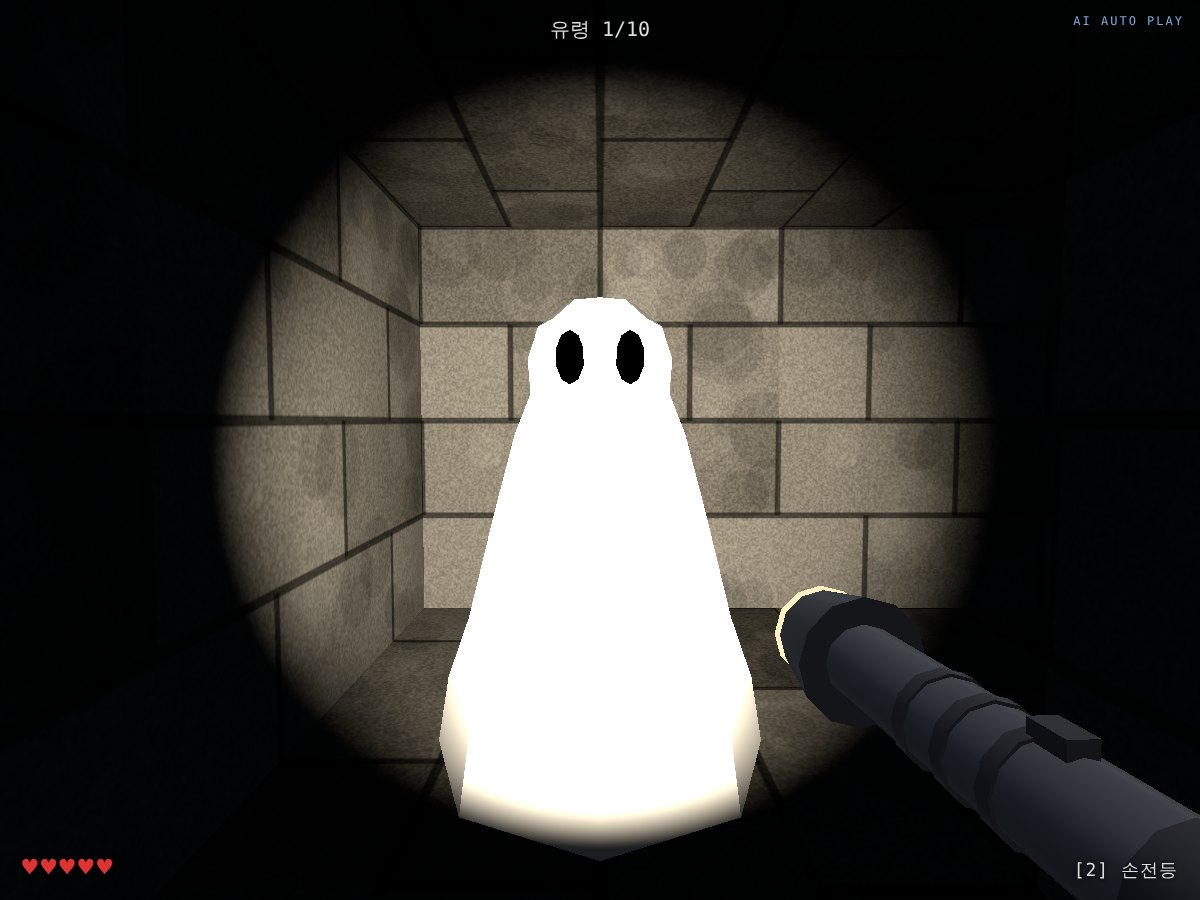
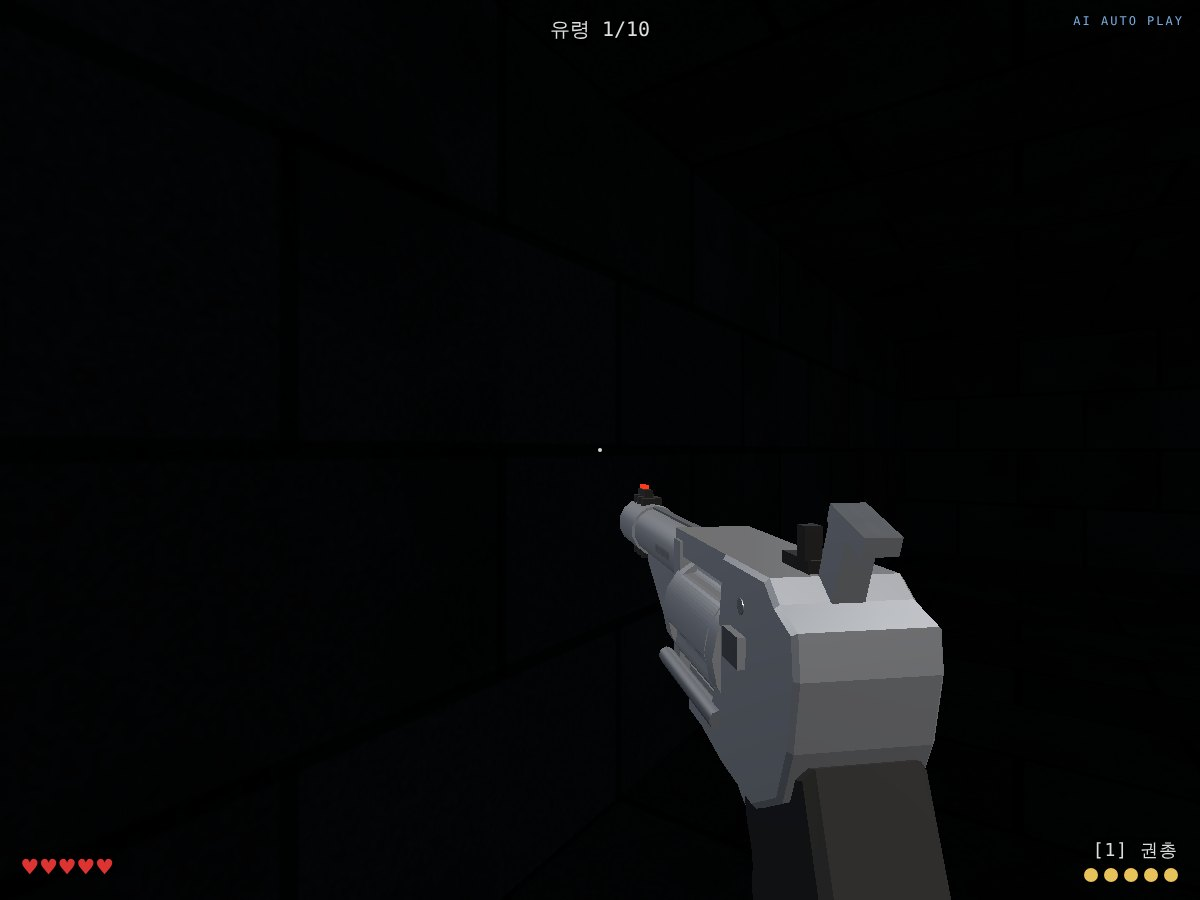
리볼버를 첨부 사진 기준 S&W 500으로 재모델링 (플루트 실린더, 제동구, 언더러그, 체커 해머·래치, 호그 그립)
Claude-Session: https://claude.ai/code/session_01BNALm6jadQDQcYbVgMXER4

diff --git a/shoot-to-survive/js/revolver.js b/shoot-to-survive/js/revolver.js
@@ -1,87 +1,144 @@
 import * as THREE from 'three';
 
-// S&W 500 기반 리볼버 — 프리미티브 조합. 총구 방향 = -z, 위 = +y, 오른쪽 = +x
-function engravingMap() {
-  const c = document.createElement('canvas'); c.width = 512; c.height = 128;
-  const x = c.getContext('2d');
-  x.fillStyle = '#b8bcc2'; x.fillRect(0, 0, 512, 128);
-  x.strokeStyle = 'rgba(255,255,255,0.18)';
-  for (let i = 0; i < 128; i += 3) { x.beginPath(); x.moveTo(0, i); x.lineTo(512, i); x.stroke(); }
-  x.fillStyle = '#4b4f55'; x.font = 'bold 46px monospace'; x.textAlign = 'center'; x.textBaseline = 'middle';
-  for (let i = 0; i < 5; i++) x.fillText('500', 51 + i * 102, 64);
+// S&W 500 (8-3/8") — 첨부 사진 기준으로 프리미티브 + 옆모양 압출로 조립.
+// 좌표(m): 총구 방향 = -z, 위 = +y, 오른쪽 = +x. 실린더 중심 z = -0.0375, 약영 0.42m 길이.
+const R_CYL = 0.0345, CYL_LEN = 0.095, CHAMBER_R = 0.0225, BARREL_R = 0.0185, BORE_Y = CHAMBER_R;
+
+// (z,y) 윤곽을 x 방향으로 width 만큼 압출 (x 중심)
+function profile(pts, width, { bevel = 0, holes = null } = {}) {
+  const sh = new THREE.Shape(pts.map(([z, y]) => new THREE.Vector2(z, y)));
+  if (holes) for (const h of holes) sh.holes.push(new THREE.Path(h.map(([z, y]) => new THREE.Vector2(z, y))));
+  const g = new THREE.ExtrudeGeometry(sh, { depth: width, bevelEnabled: bevel > 0, bevelThickness: bevel, bevelSize: bevel, bevelSegments: 1, curveSegments: 10 });
+  g.translate(0, 0, -width / 2);
+  g.rotateY(-Math.PI / 2);
+  return g;
+}
+const ellipse = (cz, cy, rz, ry, n = 20) => Array.from({ length: n }, (_, i) => [cz + Math.cos(i / n * 6.2832) * rz, cy + Math.sin(i / n * 6.2832) * ry]);
+
+function canvasTex(w, h, draw, repeat) {
+  const c = document.createElement('canvas'); c.width = w; c.height = h;
+  draw(c.getContext('2d'), w, h);
   const t = new THREE.CanvasTexture(c); t.colorSpace = THREE.SRGBColorSpace;
+  if (repeat) { t.wrapS = t.wrapT = THREE.RepeatWrapping; t.repeat.set(repeat, repeat); }
   return t;
 }
+const checkerTex = () => canvasTex(64, 64, (x, w, h) => { // 다이아몬드 체커링
+  x.fillStyle = '#9aa0a8'; x.fillRect(0, 0, w, h); x.strokeStyle = '#3c4046'; x.lineWidth = 3;
+  for (let i = -h; i < w + h; i += 8) { x.beginPath(); x.moveTo(i, 0); x.lineTo(i + h, h); x.stroke(); x.beginPath(); x.moveTo(i, h); x.lineTo(i + h, 0); x.stroke(); }
+}, 2);
+const textTex = (text, w, h, size, weight = 'bold') => canvasTex(w, h, (x) => {
+  x.clearRect(0, 0, w, h); x.fillStyle = '#4a4e55'; x.font = `${weight} ${size}px sans-serif`;
+  x.textAlign = 'center'; x.textBaseline = 'middle'; x.fillText(text, w / 2, h / 2);
+});
+const medallionTex = () => canvasTex(64, 64, (x) => {
+  x.clearRect(0, 0, 64, 64); x.strokeStyle = '#5b6068'; x.lineWidth = 4; x.beginPath(); x.arc(32, 32, 27, 0, 7); x.stroke();
+  x.lineWidth = 2; x.beginPath(); x.arc(32, 32, 20, 0, 7); x.stroke();
+  x.fillStyle = '#5b6068'; x.font = 'bold 18px sans-serif'; x.textAlign = 'center'; x.textBaseline = 'middle'; x.fillText('S&W', 32, 33);
+});
 
 export function createRevolver() {
   const root = new THREE.Group();
-  const steel = new THREE.MeshStandardMaterial({ color: 0xc9cdd2, metalness: 0.75, roughness: 0.32 });
-  const darkSteel = new THREE.MeshStandardMaterial({ color: 0x6d7076, metalness: 0.7, roughness: 0.4 });
-  const black = new THREE.MeshStandardMaterial({ color: 0x050505, roughness: 0.8 });
-  const rubber = new THREE.MeshStandardMaterial({ color: 0x141414, roughness: 0.9 });
-  const red = new THREE.MeshBasicMaterial({ color: 0xff2a1a });
+  const steel = new THREE.MeshStandardMaterial({ color: 0xd2d6db, metalness: 0.85, roughness: 0.27 });
+  const steelDark = new THREE.MeshStandardMaterial({ color: 0x9a9fa6, metalness: 0.85, roughness: 0.34 });
+  const black = new THREE.MeshStandardMaterial({ color: 0x08090a, metalness: 0.3, roughness: 0.6 });
+  const rubber = new THREE.MeshStandardMaterial({ color: 0x17181a, metalness: 0, roughness: 0.92 });
+  const redFiber = new THREE.MeshBasicMaterial({ color: 0xff3a1c });
   const brass = new THREE.MeshStandardMaterial({ color: 0xc8a040, metalness: 0.8, roughness: 0.3 });
-  const box = (w, h, d, mat, x, y, z, parent = root) => {
-    const m = new THREE.Mesh(new THREE.BoxGeometry(w, h, d), mat); m.position.set(x, y, z); parent.add(m); return m;
+  const mesh = (geo, mat, x, y, z, parent = root) => { const m = new THREE.Mesh(geo, mat); m.position.set(x, y, z); parent.add(m); return m; };
+  const box = (w, h, d, mat, x, y, z, parent = root) => mesh(new THREE.BoxGeometry(w, h, d), mat, x, y, z, parent);
+  const cyl = (r1, r2, len, seg, mat, x, y, z, parent = root) => { // z축 방향 원기둥
+    const m = mesh(new THREE.CylinderGeometry(r1, r2, len, seg), mat, x, y, z, parent); m.rotation.x = Math.PI / 2; return m;
   };
-  const cyl = (rt, rb, len, seg, mat, x, y, z, parent = root) => { // z축 방향 원기둥
-    const m = new THREE.Mesh(new THREE.CylinderGeometry(rt, rb, len, seg), mat);
-    m.rotation.x = Math.PI / 2; m.position.set(x, y, z); parent.add(m); return m;
+  const decal = (tex, w, h, x, y, z, side) => {
+    const m = new THREE.Mesh(new THREE.PlaneGeometry(w, h), new THREE.MeshStandardMaterial({ map: tex, transparent: true, depthWrite: false, roughness: 0.5, metalness: 0.4, polygonOffsetFactor: -2, polygonOffset: true }));
+    m.position.set(x, y, z); m.rotation.y = side * Math.PI / 2; root.add(m); return m;
   };
 
-  // 프레임
-  box(0.044, 0.07, 0.1, steel, 0, 0, 0.02);
-  box(0.034, 0.011, 0.1, steel, 0, 0.0505, -0.06); // 상단 스트랩
-  // 배럴 (풀 언더러그 8-3/8")
-  cyl(0.0175, 0.0175, 0.22, 12, steel, 0, 0.022, -0.22);
-  box(0.034, 0.026, 0.17, steel, 0, -0.003, -0.19);
-  box(0.007, 0.006, 0.25, darkSteel, 0, 0.0425, -0.205); // 리브
-  // 제동구 + 슬롯 3개
-  cyl(0.0178, 0.0178, 0.056, 12, steel, 0, 0.022, -0.358);
-  for (let i = 0; i < 3; i++) box(0.012, 0.042, 0.007, black, 0, 0.022, -0.343 - i * 0.014);
-  cyl(0.0075, 0.0075, 0.004, 8, black, 0, 0.022, -0.386); // 총구
-  // 앞 가늠자 + 붉은 포인트
-  box(0.006, 0.012, 0.012, darkSteel, 0, 0.0455, -0.372);
-  box(0.0045, 0.0045, 0.003, red, 0, 0.0485, -0.3655);
-  // 뒤 가늠자
-  box(0.009, 0.014, 0.012, black, -0.0085, 0.042, 0.05);
-  box(0.009, 0.014, 0.012, black, 0.0085, 0.042, 0.05);
+  // ── 프레임 (뒤쪽 브리치 블록 + 상단 스트랩 + 요크) ──
+  mesh(profile([[0.012, 0.048], [0.062, 0.048], [0.072, 0.040], [0.088, 0.034], [0.090, 0.018], [0.085, -0.010], [0.076, -0.032], [0.05, -0.048], [0.012, -0.048], [-0.02, -0.044], [0.0, -0.02]], 0.056, { bevel: 0.002 }), steel, 0, 0, 0);
+  box(0.046, 0.015, 0.108, steel, 0, 0.0395, -0.043);          // 실린더 위 상단 스트랩
+  box(0.05, 0.078, 0.014, steel, 0, 0.002, -0.088);           // 요크(실린더 앞 프레임)
+  box(0.05, 0.026, 0.06, steel, 0, -0.038, -0.03);             // 프레임 하단 앞(방아쇠울 연결)
 
-  // 스윙아웃 실린더 (좌측 크레인 축 기준 회전)
-  const swing = new THREE.Group(); swing.position.set(-0.03, -0.03, -0.07); root.add(swing);
-  const cylPivot = new THREE.Group(); cylPivot.position.set(0.03, 0.038, 0); swing.add(cylPivot);
-  const side = new THREE.MeshStandardMaterial({ map: engravingMap(), metalness: 0.6, roughness: 0.4 });
-  const cm = new THREE.Mesh(new THREE.CylinderGeometry(0.041, 0.041, 0.1, 15), [side, steel, steel]);
-  cm.rotation.x = Math.PI / 2; cylPivot.add(cm);
+  // ── 배럴 · 풀 언더러그 · 제동구 ──
+  cyl(BARREL_R, BARREL_R, 0.225, 14, steel, 0, BORE_Y, -0.1875);
+  box(0.006, 0.0016, 0.22, steelDark, 0, BORE_Y + BARREL_R + 0.0003, -0.19);  // 얇은 리브
+  mesh(profile([[-0.075, 0.012], [-0.075, -0.027], [-0.168, -0.0225], [-0.213, 0.004], [-0.213, 0.014]], 0.028), steel, 0, 0, 0); // 언더러그 (끝이 비스듬히 끝남)
+  cyl(0.0205, 0.0205, 0.056, 14, steel, 0, BORE_Y, -0.272);   // 제동구 몸체
+  for (let i = 0; i < 3; i++) box(0.017, 0.05, 0.0078, black, 0, BORE_Y, -0.262 - i * 0.0145); // 슬롯 3개
+  cyl(0.0095, 0.0095, 0.004, 10, black, 0, BORE_Y, -0.3);     // 총구
+  box(0.007, 0.012, 0.026, black, 0, BORE_Y + 0.0205 + 0.004, -0.285); // 앞 가늠자 받침
+  box(0.0045, 0.0045, 0.012, redFiber, 0, BORE_Y + 0.0205 + 0.011, -0.289); // 붉은 파이버 포인트
+  // 각인
+  decal(textTex('SMITH & WESSON', 256, 24, 17), 0.062, 0.0058, BARREL_R + 0.0004, BORE_Y, -0.15, 1);
+  decal(textTex('.500 S&W MAGNUM', 256, 24, 17), 0.062, 0.0058, -BARREL_R - 0.0004, BORE_Y, -0.15, -1);
+
+  // ── 뒤 가늠자 (검정 조절식) ──
+  box(0.02, 0.008, 0.026, black, 0, 0.0515, 0.046);
+  box(0.0075, 0.014, 0.008, black, -0.0072, 0.0625, 0.054);
+  box(0.0075, 0.014, 0.008, black, 0.0072, 0.0625, 0.054);
+
+  // ── 스윙아웃 실린더 (크레인 축 기준) ──
+  const swing = new THREE.Group(); swing.position.set(-0.03, -0.03, -0.0375); root.add(swing);
+  cyl(0.005, 0.005, 0.1, 8, steelDark, 0, 0, -0.005, swing);  // 크레인 로드
+  const cylPivot = new THREE.Group(); cylPivot.position.set(0.03, 0.03, 0); swing.add(cylPivot);
+  const half = CYL_LEN / 2, band = 0.012, midLen = CYL_LEN - band * 2;
+  cyl(R_CYL, R_CYL, band, 16, steel, 0, 0, half - band / 2, cylPivot);   // 뒤 밴드
+  cyl(R_CYL, R_CYL, band, 16, steel, 0, 0, -half + band / 2, cylPivot);  // 앞 밴드
+  { // 플루트가 파인 중간부 (챔버 사이 5개)
+    const pts = [], N = 120, depth = 0.0042, wid = 15 * Math.PI / 180;
+    for (let i = 0; i < N; i++) {
+      const a = i / N * Math.PI * 2; let r = R_CYL, dmin = 9;
+      for (let k = 0; k < 5; k++) { const c = Math.PI / 2 + Math.PI / 5 + k * Math.PI * 2 / 5; dmin = Math.min(dmin, Math.abs(Math.atan2(Math.sin(a - c), Math.cos(a - c)))); }
+      if (dmin < wid) r -= depth * (0.5 + 0.5 * Math.cos(Math.PI * dmin / wid));
+      pts.push(new THREE.Vector2(Math.cos(a) * r, Math.sin(a) * r));
+    }
+    const g = new THREE.ExtrudeGeometry(new THREE.Shape(pts), { depth: midLen, bevelEnabled: false }); g.translate(0, 0, -midLen / 2);
+    cylPivot.add(new THREE.Mesh(g, steel));
+  }
   for (let i = 0; i < 5; i++) { // 챔버 구멍 5개 (앞·뒤)
     const a = Math.PI / 2 + i * Math.PI * 2 / 5;
-    for (const z of [0.0505, -0.0505]) {
-      const h = new THREE.Mesh(new THREE.CylinderGeometry(0.0078, 0.0078, 0.004, 8), black);
-      h.rotation.x = Math.PI / 2; h.position.set(Math.cos(a) * 0.025, Math.sin(a) * 0.025, z); cylPivot.add(h);
-    }
+    for (const z of [half + 0.0004, -half - 0.0004]) cyl(0.0078, 0.0078, 0.002, 12, black, Math.cos(a) * CHAMBER_R, Math.sin(a) * CHAMBER_R, z, cylPivot);
   }
-  // 재장전용 탄 (스윙 그룹의 자식)
+  { // 이젝터 스타(별) + 가운데 핀
+    const s = [], n = 10; for (let i = 0; i < n; i++) { const r = i % 2 ? 0.0075 : 0.0135, a = i / n * Math.PI * 2; s.push(new THREE.Vector2(Math.cos(a) * r, Math.sin(a) * r)); }
+    const g = new THREE.ExtrudeGeometry(new THREE.Shape(s), { depth: 0.003, bevelEnabled: false });
+    const star = new THREE.Mesh(g, steelDark); star.position.z = half; cylPivot.add(star);
+    cyl(0.0045, 0.0045, 0.012, 8, steelDark, 0, 0, half + 0.004, cylPivot);
+    cyl(0.005, 0.005, 0.005, 8, steelDark, 0, 0, -half - 0.002, cylPivot);
+  }
+  // 재장전용 탄
   const bullet = new THREE.Group();
-  const bc = new THREE.Mesh(new THREE.CylinderGeometry(0.0065, 0.0065, 0.03, 8), brass); bc.rotation.x = Math.PI / 2;
-  const bt = new THREE.Mesh(new THREE.CylinderGeometry(0.0035, 0.0062, 0.016, 8), darkSteel); bt.rotation.x = Math.PI / 2; bt.position.z = -0.023;
+  const bc = new THREE.Mesh(new THREE.CylinderGeometry(0.0068, 0.0068, 0.032, 10), brass); bc.rotation.x = Math.PI / 2;
+  const bt = new THREE.Mesh(new THREE.CylinderGeometry(0.0038, 0.0066, 0.018, 10), steelDark); bt.rotation.x = Math.PI / 2; bt.position.z = -0.025;
   bullet.add(bc, bt); bullet.visible = false; swing.add(bullet);
+  const loadPoint = new THREE.Vector3(0.03, 0.03 + CHAMBER_R, half); // swing 좌표: 맨 위 챔버 입구(뒷면)
 
-  // 해머 (독립 파츠)
-  const hammer = new THREE.Group(); hammer.position.set(0, 0.035, 0.068); root.add(hammer);
-  box(0.012, 0.03, 0.014, darkSteel, 0, 0.012, 0, hammer);
-  box(0.012, 0.008, 0.02, darkSteel, 0, 0.027, 0.01, hammer);
-  // 방아쇠 + 방아쇠울
-  const trigger = new THREE.Group(); trigger.position.set(0, -0.035, 0.008); root.add(trigger);
-  box(0.007, 0.026, 0.01, darkSteel, 0, -0.013, 0, trigger);
-  box(0.008, 0.026, 0.007, steel, 0, -0.05, -0.03);
-  box(0.008, 0.007, 0.065, steel, 0, -0.0625, 0.0);
-  box(0.008, 0.026, 0.007, steel, 0, -0.05, 0.03);
-  // 그립 (검정 고무 + 핑거 홈)
-  const grip = box(0.042, 0.12, 0.058, rubber, 0, -0.088, 0.075); grip.rotation.x = -0.3;
-  for (let i = -1; i <= 1; i++) box(0.044, 0.007, 0.006, new THREE.MeshStandardMaterial({ color: 0x050505 }), 0, i * 0.03, -0.031, grip);
-  // 실린더 래치 (좌측)
-  const latch = box(0.008, 0.013, 0.024, darkSteel, -0.0275, 0.018, -0.012);
+  // ── 해머 (스테인리스 + 체커링 스퍼) ──
+  const hammer = new THREE.Group(); hammer.position.set(0, 0.03, 0.062); root.add(hammer);
+  const arm = box(0.014, 0.04, 0.014, steel, 0, 0.022, 0.008, hammer); arm.rotation.x = 0.35;
+  const spur = box(0.015, 0.008, 0.028, [steel, steel, new THREE.MeshStandardMaterial({ map: checkerTex(), metalness: 0.7, roughness: 0.4 }), steel, steel, steel], 0, 0.042, 0.022, hammer);
+  spur.rotation.x = 0.35;
+  // ── 방아쇠 (매끈한 곡선형) + 대형 방아쇠울 ──
+  const trigger = new THREE.Group(); trigger.position.set(0, -0.042, 0.024); root.add(trigger);
+  mesh(profile([[0.004, 0], [0.012, 0], [0.012, -0.012], [0.006, -0.026], [-0.006, -0.033], [-0.018, -0.032], [-0.016, -0.027], [-0.007, -0.022], [-0.003, -0.012]], 0.011), steel, 0, 0, 0, trigger);
+  mesh(profile(ellipse(0.0, -0.066, 0.044, 0.025), 0.012, { holes: [ellipse(0.0, -0.066, 0.0335, 0.0155)] }), steel, 0, 0, 0.0);
 
-  const muzzle = new THREE.Object3D(); muzzle.position.set(0, 0.022, -0.395); root.add(muzzle);
-  return { root, swing, cylPivot, hammer, trigger, latch, bullet, muzzle };
+  // ── 호그 고무 그립 (핑거 홈 4개) ──
+  const gp = [[0.088, -0.02], [0.104, -0.06], [0.118, -0.11], [0.128, -0.15], [0.124, -0.176], [0.1, -0.186], [0.068, -0.18]];
+  for (let i = 0; i <= 24; i++) { // 앞면 핑거 홈
+    const t = 1 - i / 24, y = -0.045 - 0.13 * t, z = 0.03 + 0.036 * t - 0.0042 * (0.5 - 0.5 * Math.cos(2 * Math.PI * 4 * t));
+    gp.push([z, y]);
+  }
+  mesh(profile(gp, 0.042, { bevel: 0.004 }), rubber, 0, 0, 0);
+
+  // ── 실린더 래치(좌측 체커 엄지 조각) + 나사 + 메달리온 + 500 로고 ──
+  const latch = box(0.006, 0.014, 0.02, [steel, new THREE.MeshStandardMaterial({ map: checkerTex(), metalness: 0.7, roughness: 0.4 }), steel, steel, steel, steel], -0.0307, 0.013, 0.032);
+  const latchRest = 0.032;
+  const pin = cyl(0.0038, 0.0038, 0.004, 8, steelDark, -0.0285, 0.032, 0.036); pin.rotation.set(0, 0, Math.PI / 2);
+  decal(medallionTex(), 0.017, 0.017, -0.0283, -0.014, 0.048, -1);
+  decal(textTex('500', 96, 40, 34), 0.034, 0.0142, 0.0283, -0.004, 0.036, 1);
+
+  const muzzle = new THREE.Object3D(); muzzle.position.set(0, BORE_Y, -0.306); root.add(muzzle);
+  return { root, swing, cylPivot, hammer, trigger, latch, latchRest, bullet, loadPoint, muzzle };
 }

diff --git a/shoot-to-survive/js/weapons.js b/shoot-to-survive/js/weapons.js
@@ -10,7 +10,7 @@ const SWING_OPEN = 1.2;
 const smooth = (t) => { t = Math.min(1, Math.max(0, t)); return t * t * (3 - 2 * t); };
 
 const BASE = {
-  pistol: { p: [0.11, -0.115, -0.3], r: [0.02, 0.05, 0] },
+  pistol: { p: [0.085, -0.1, -0.36], r: [0.04, 0.16, 0] },
   flash: { p: [0.15, -0.12, -0.32], r: [0.04, 0.1, 0] },
 };
 
@@ -69,7 +69,7 @@ export class Weapons {
 
   cancelReload() {
     this.reload = null; this.displayAmmo = this.ammo; // 탄약은 재장전 전 상태 유지
-    this.rev.bullet.visible = false; this.rev.latch.position.z = -0.012; this.cylExtra = 0; this.swingGoal = 0; // 실린더는 닫힌 상태로 복귀
+    this.rev.bullet.visible = false; this.rev.latch.position.z = this.rev.latchRest; this.cylExtra = 0; this.swingGoal = 0; // 실린더는 닫힌 상태로 복귀
   }
 
   tryFire() {
@@ -137,7 +137,7 @@ export class Weapons {
     const r = this.reload; r.t += dt; const t = r.t, rv = this.rev;
     const insertStart = RELOAD.eject, insertEnd = RELOAD.eject + RELOAD.insert * RELOAD.count;
     this.swingGoal = t < insertEnd ? 1 : 0;
-    rv.latch.position.z = -0.012 - 0.01 * Math.min(1, this.swingVis / SWING_OPEN);
+    rv.latch.position.z = rv.latchRest - 0.01 * Math.min(1, this.swingVis / SWING_OPEN);
     if (t >= 0.3 && !r.ejected) { // 탄피 5개 한 번에 배출
       r.ejected = true; this.displayAmmo = 0; this.spawnCasings();
     }
@@ -147,14 +147,14 @@ export class Weapons {
       if (k > r.lastK) { this.cylBase += STEP; r.lastK = k; }
       const b = rv.bullet; b.visible = true;
       const p = smooth(lt / 0.3);
-      b.position.set(-0.02 + 0.05 * p, -0.03 + 0.09 * p, 0.17 - 0.14 * p);
+      const L = rv.loadPoint; b.position.set(L.x - 0.03 * (1 - p), L.y - 0.07 * (1 - p), L.z + 0.012 + 0.12 * (1 - p) - 0.03 * p);
       if (lt >= 0.3 && r.inserted === k) { r.inserted++; this.displayAmmo = r.inserted; }
       this.cylExtra = lt >= 0.3 ? STEP * smooth((lt - 0.3) / 0.1) : 0;
     } else if (t >= insertEnd) {
       if (!r.finalRot) { r.finalRot = true; this.cylBase += STEP; this.cylExtra = 0; rv.bullet.visible = false; }
     }
     if (t >= insertEnd + RELOAD.close) {
-      this.ammo = 5; this.displayAmmo = 5; this.reload = null; rv.latch.position.z = -0.012;
+      this.ammo = 5; this.displayAmmo = 5; this.reload = null; rv.latch.position.z = rv.latchRest;
     }
   }
 

diff --git a/shoot-to-survive/js/main.js b/shoot-to-survive/js/main.js
@@ -34,6 +34,8 @@ const key = new THREE.DirectionalLight(0xfff0dd, 3.2); key.position.set(0.5, 1, 
   const x = c.getContext('2d'); const g = x.createLinearGradient(0, 0, 0, 128);
   g.addColorStop(0, '#d8dde6'); g.addColorStop(0.5, '#555a63'); g.addColorStop(1, '#15171a');
   x.fillStyle = g; x.fillRect(0, 0, 256, 128);
+  x.fillStyle = 'rgba(255,255,255,0.9)'; for (const [px, w] of [[20, 26], [90, 14], [160, 30], [220, 12]]) x.fillRect(px, 14, w, 34);
+  x.fillStyle = 'rgba(0,0,0,0.55)'; for (const px of [60, 130, 195]) x.fillRect(px, 40, 18, 50);
   const t = new THREE.CanvasTexture(c); t.mapping = THREE.EquirectangularReflectionMapping; t.colorSpace = THREE.SRGBColorSpace;
   const pm = new THREE.PMREMGenerator(renderer);
   viewScene.environment = pm.fromEquirectangular(t).texture;
